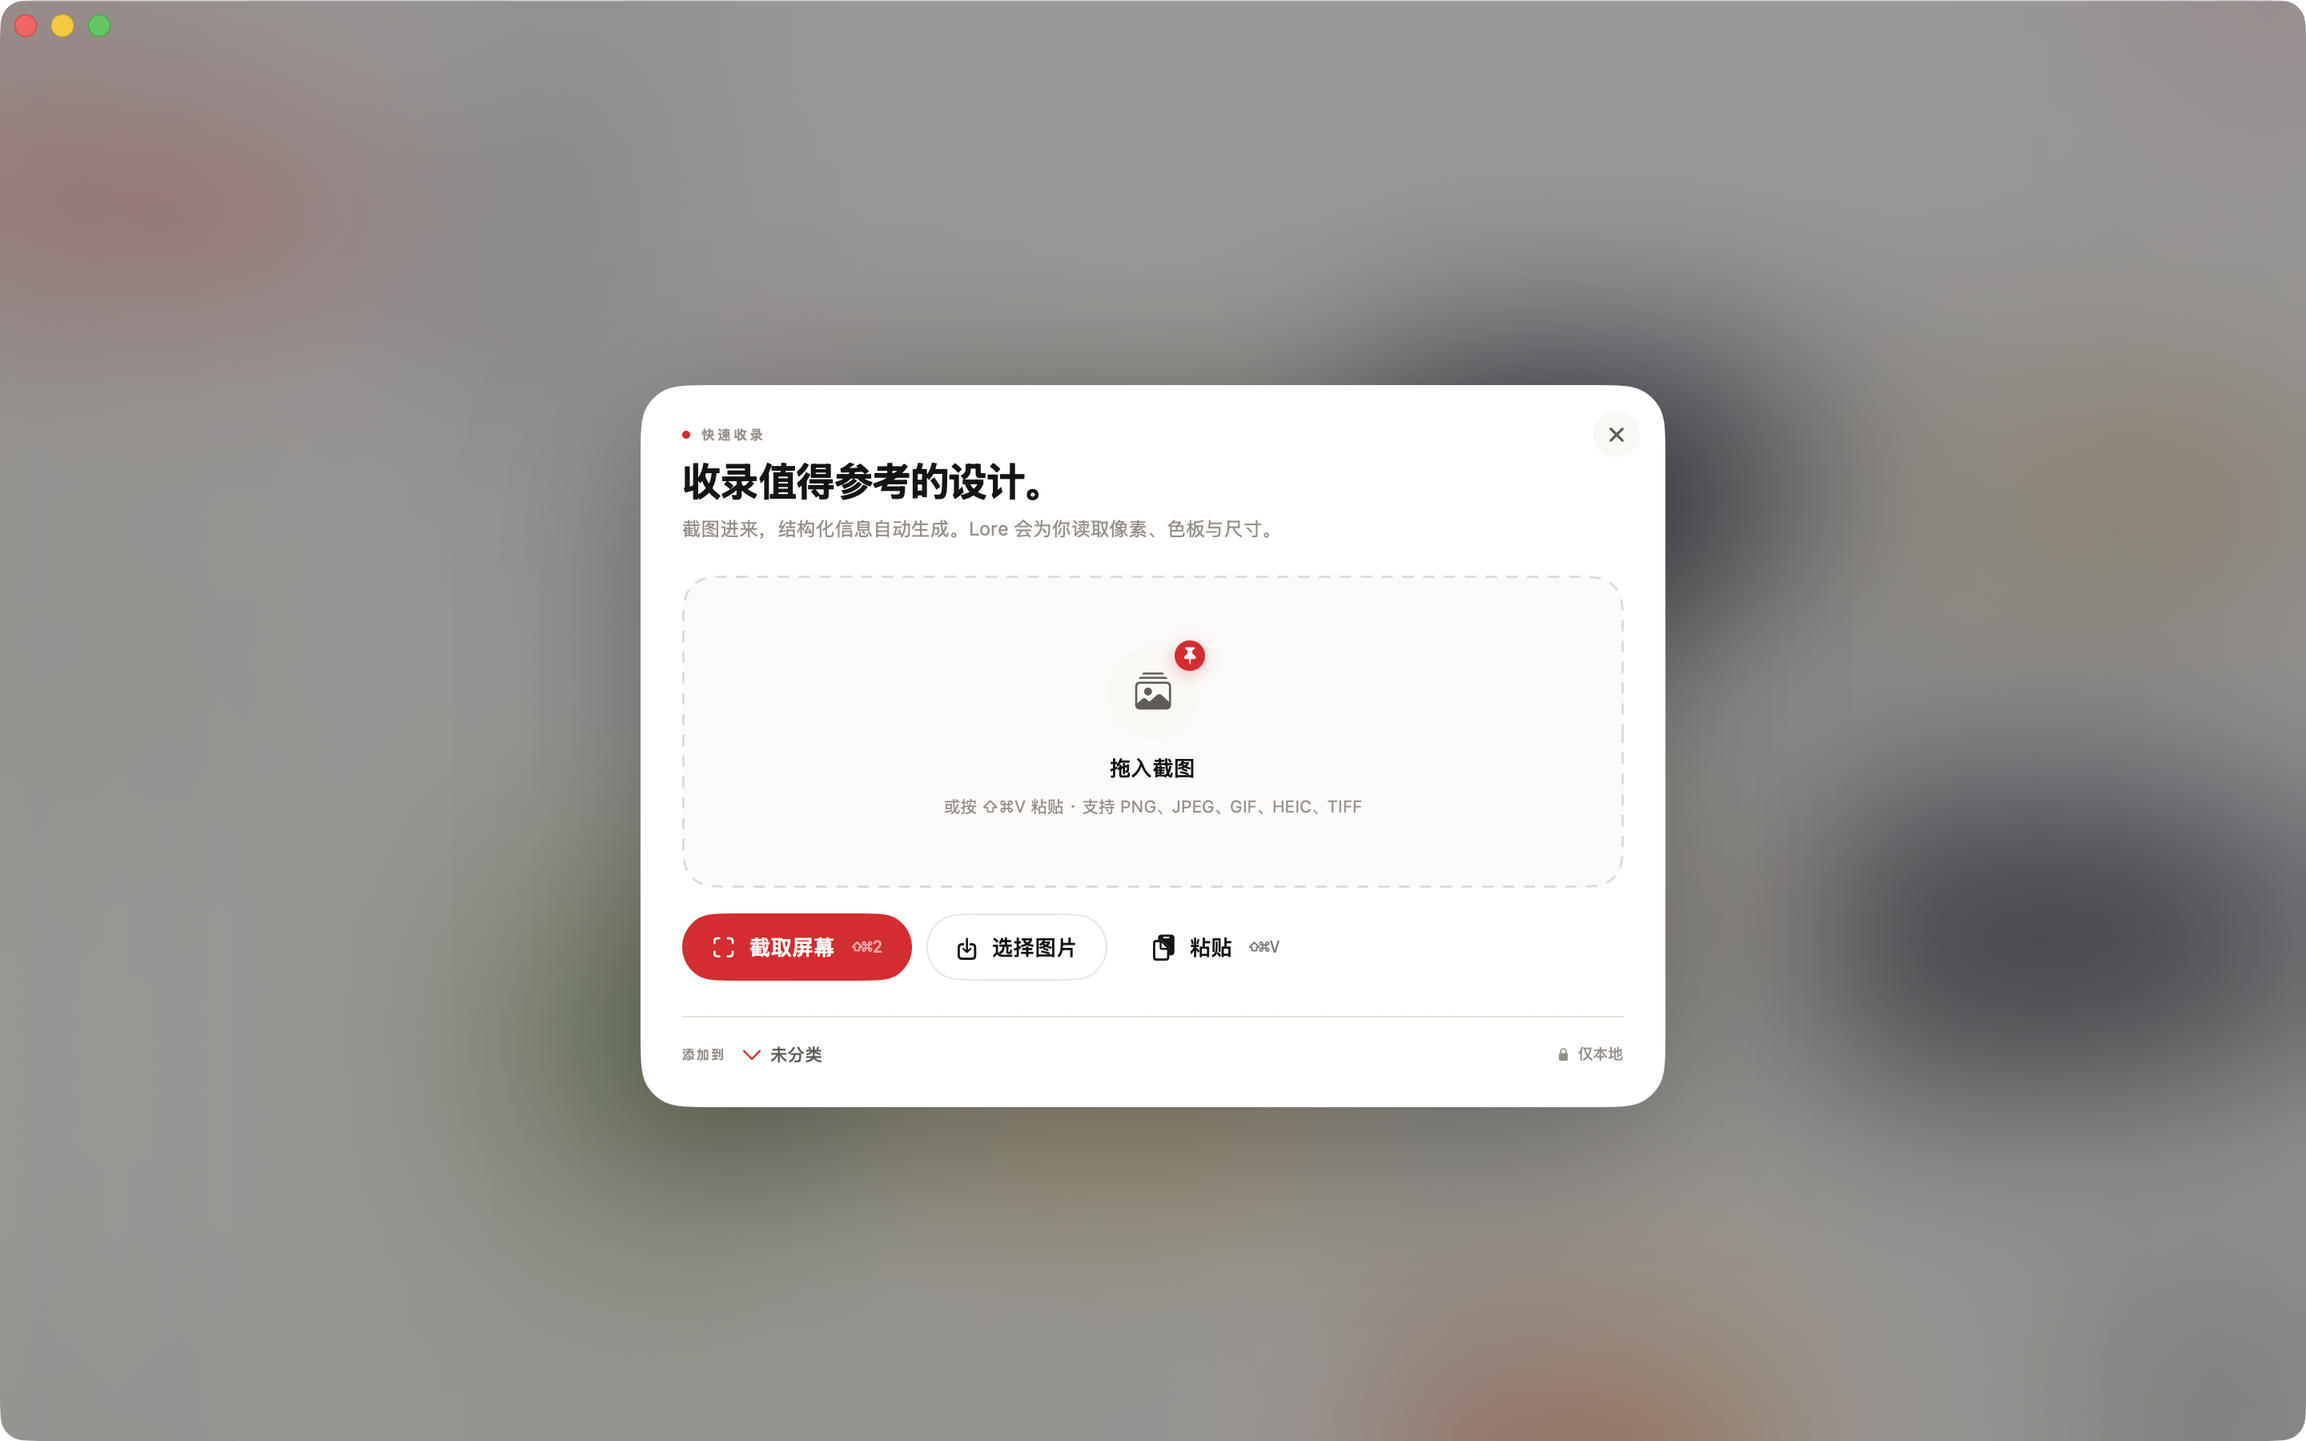
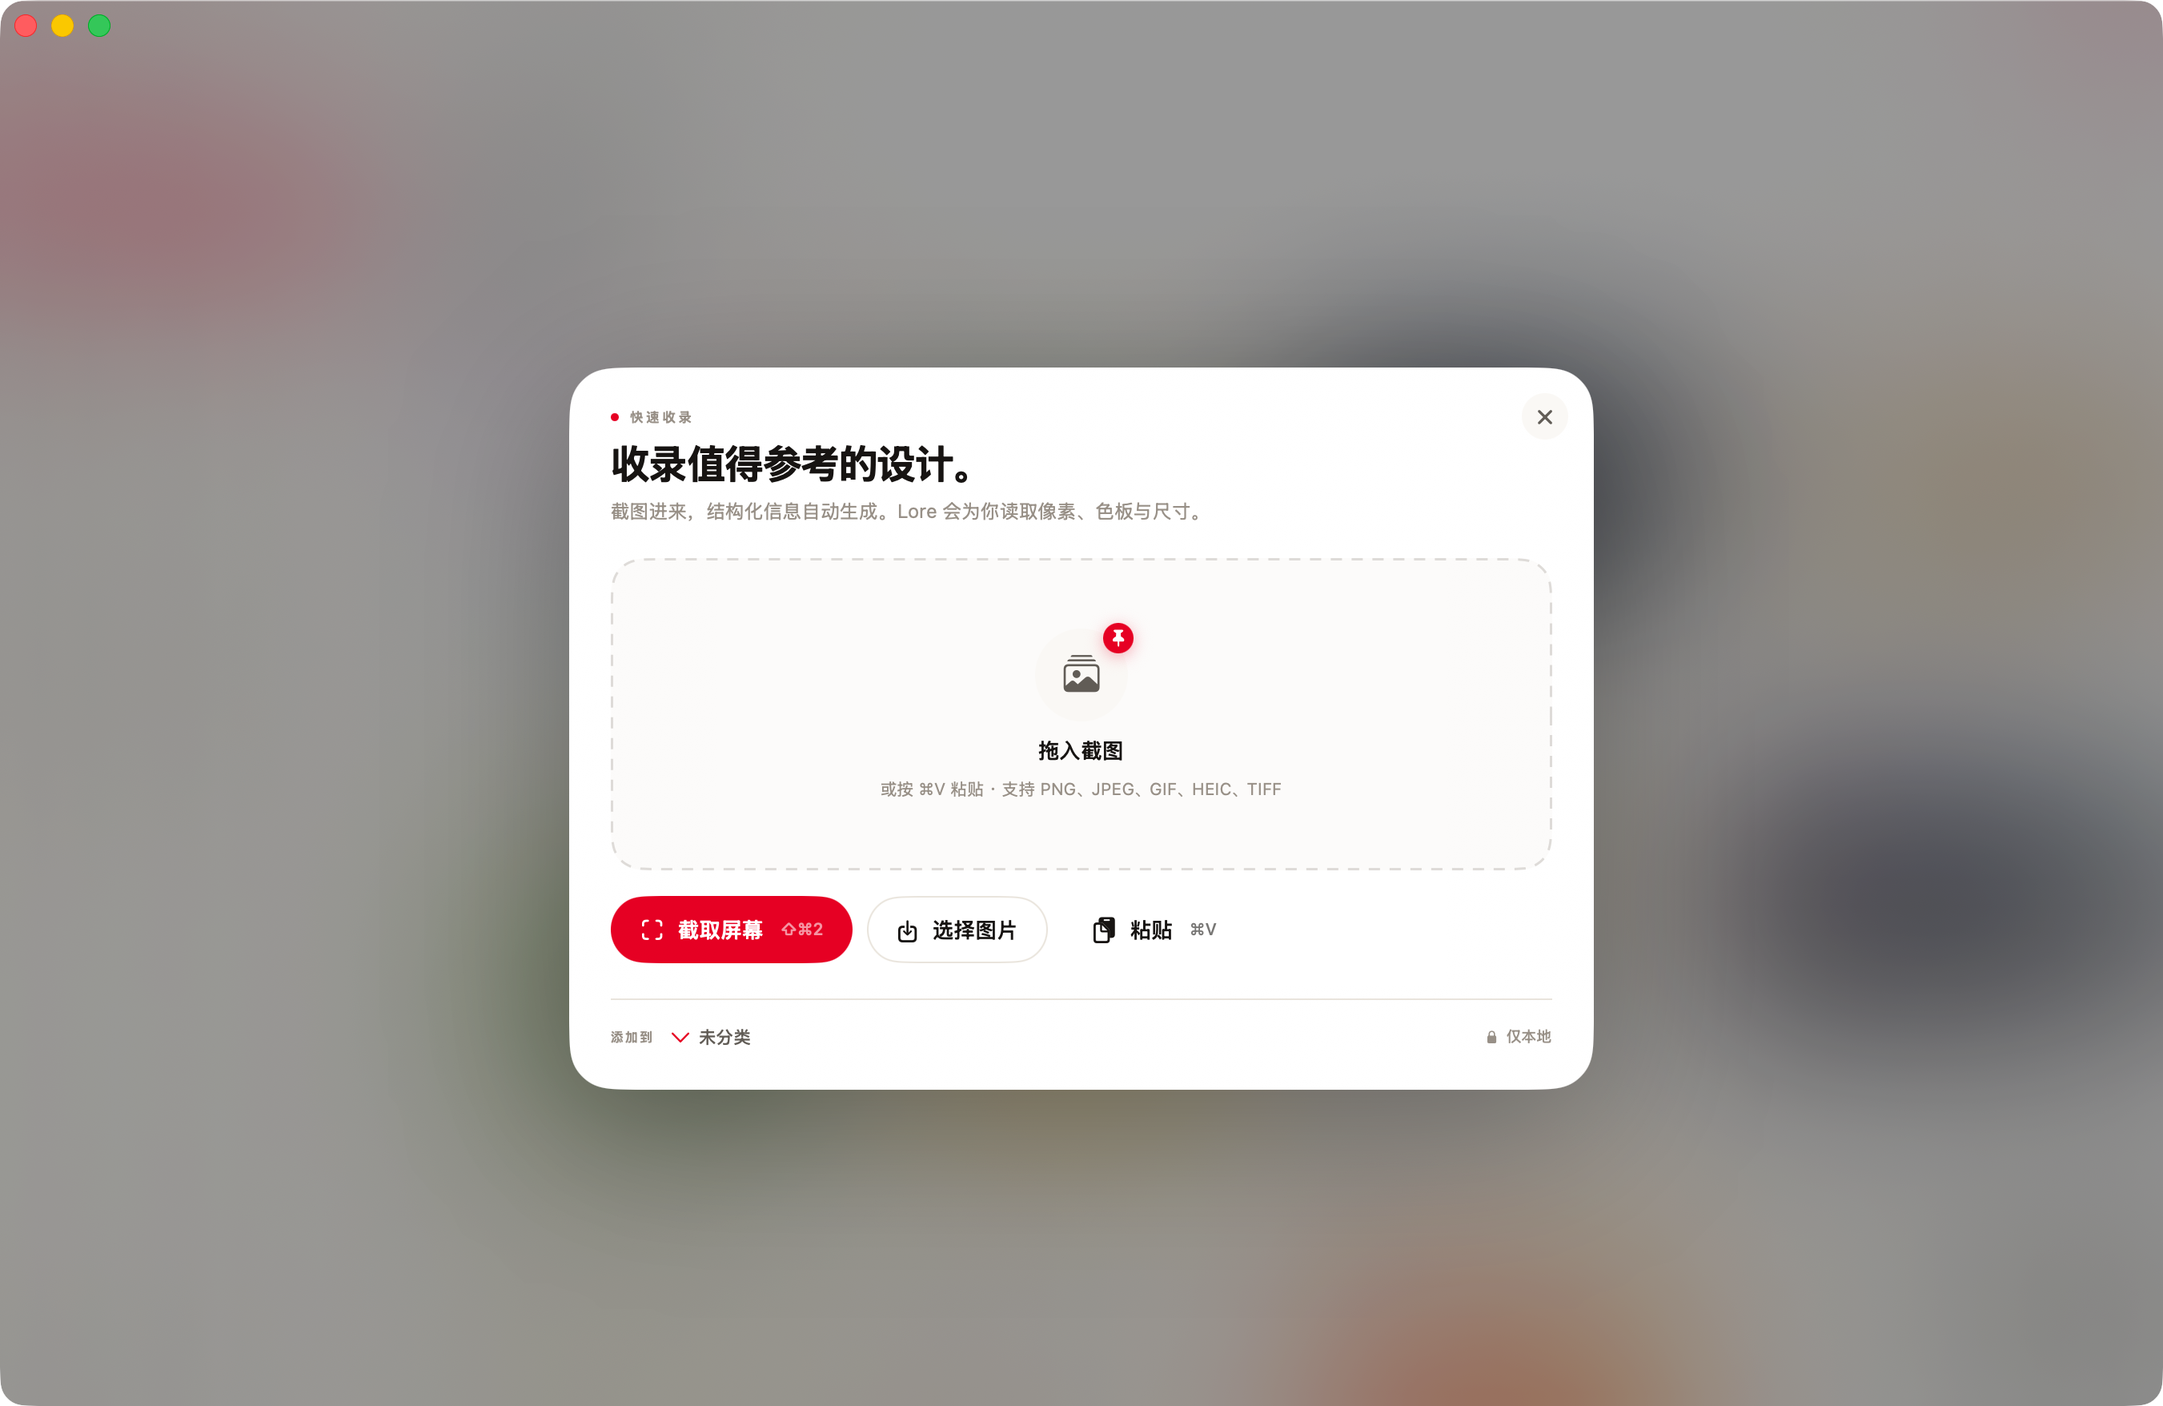
Fix shortcut glyphs and paste with ⌘V
Render LoreButton shortcut badges with the default system face: SF Mono overlaps the ⌘ and ⇧ glyphs at this size. Regenerate the capture and gallery screenshots with the fix.

Pressing ⌘V now imports a clipboard image from the gallery and from the capture sheet, while text fields keep the standard paste behavior; the existing ⇧⌘V menu command still works. Update the in-app copy and README shortcuts to match.

diff --git a/Sources/Lore/Views/CaptureSheet.swift b/Sources/Lore/Views/CaptureSheet.swift
@@ -6,6 +6,7 @@ struct CaptureSheet: View {
     @State private var board = "Unsorted"
     @State private var dropTargeted = false
     @State private var boardMenuHovering = false
+    @State private var pasteMonitor: Any?
 
     var body: some View {
         GeometryReader { geo in
@@ -53,7 +54,9 @@ struct CaptureSheet: View {
         .transition(.opacity.combined(with: .scale(scale: 0.975)))
         .onAppear {
             board = store.selectedBoard ?? store.defaultBoard
+            installPasteMonitor()
         }
+        .onDisappear { removePasteMonitor() }
     }
 
     private var header: some View {
@@ -101,7 +104,7 @@ struct CaptureSheet: View {
                 .font(.system(size: 13.5, weight: .semibold))
                 .foregroundStyle(Theme.ink)
 
-            Text(T("or paste with ⇧⌘V · PNG, JPEG, GIF, HEIC, TIFF"))
+            Text(T("or press ⌘V to paste · PNG, JPEG, GIF, HEIC, TIFF"))
                 .font(.system(size: 10.5))
                 .foregroundStyle(Theme.inkTertiary)
         }
@@ -139,7 +142,7 @@ struct CaptureSheet: View {
                 ImportPanel.present(store: store, board: board)
             }
 
-            LoreButton(title: T("Paste"), icon: "doc.on.clipboard", variant: .ghost, shortcut: "⇧⌘V") {
+            LoreButton(title: T("Paste"), icon: "doc.on.clipboard", variant: .ghost, shortcut: "⌘V") {
                 close()
                 Task { await store.pasteFromClipboard(board: board) }
             }
@@ -202,6 +205,27 @@ struct CaptureSheet: View {
             .foregroundStyle(Theme.inkTertiary)
             .help(T("Images are stored on this Mac and never uploaded."))
         }
+    }
+
+    /// The sheet has no text fields, so ⌘V can always mean "paste the image
+    /// into this board" while it is open. A search field behind the sheet may
+    /// still hold focus; the shortcut must not defer to it.
+    private func installPasteMonitor() {
+        guard pasteMonitor == nil else { return }
+        pasteMonitor = NSEvent.addLocalMonitorForEvents(matching: .keyDown) { event in
+            guard Clipboard.isPasteShortcut(event), Clipboard.containsImage() else { return event }
+            MainActor.assumeIsolated {
+                let target = board
+                close()
+                Task { @MainActor in _ = await store.pasteFromClipboard(board: target) }
+            }
+            return nil
+        }
+    }
+
+    private func removePasteMonitor() {
+        if let pasteMonitor { NSEvent.removeMonitor(pasteMonitor) }
+        pasteMonitor = nil
     }
 
     private func close() {

diff --git a/Sources/Lore/Store/Clipboard.swift b/Sources/Lore/Store/Clipboard.swift
@@ -1,0 +1,51 @@
+import AppKit
+
+/// Clipboard inspection shared by the paste buttons, the app menu, and the ⌘V
+/// shortcut. Keeping the image-type list in one place means the importer, the
+/// shortcut guard, and the empty-state copy cannot disagree about whether a
+/// paste is possible.
+enum Clipboard {
+    static let gifTypes: [NSPasteboard.PasteboardType] = [
+        NSPasteboard.PasteboardType("com.compuserve.gif"),
+        NSPasteboard.PasteboardType("public.gif")
+    ]
+
+    static func isLikelyImage(_ url: URL) -> Bool {
+        ["png", "jpg", "jpeg", "heic", "heif", "tiff", "tif", "webp", "gif", "bmp"]
+            .contains(url.pathExtension.lowercased())
+    }
+
+    /// True when a paste would import something. Only inspects pasteboard types
+    /// and file URLs, so ⌘V can decide whether to consume the event without
+    /// decoding a large bitmap.
+    static func containsImage(_ pasteboard: NSPasteboard = .general) -> Bool {
+        if let objects = pasteboard.readObjects(
+            forClasses: [NSURL.self],
+            options: [.urlReadingFileURLsOnly: true]
+        ) {
+            let urls = objects.compactMap { ($0 as? NSURL) as URL? }
+            if urls.contains(where: isLikelyImage) { return true }
+        }
+
+        let types = Set(pasteboard.types ?? [])
+        if gifTypes.contains(where: { types.contains($0) }) { return true }
+        return types.contains(.png)
+            || types.contains(.tiff)
+            || types.contains(NSPasteboard.PasteboardType("public.jpeg"))
+    }
+
+    /// ⌘V exactly: ⇧⌘V still belongs to the app-menu command, and ⌘⌥V is not a
+    /// paste gesture.
+    static func isPasteShortcut(_ event: NSEvent) -> Bool {
+        guard event.keyCode == 9 else { return false } // kVK_ANSI_V
+        let modifiers = event.modifierFlags.intersection([.command, .shift, .option, .control])
+        return modifiers == .command
+    }
+
+    /// Text fields and editors keep the standard paste behavior; importing a
+    /// screenshot must never steal ⌘V from the search field or a note editor.
+    static func isTextInputFocused(_ window: NSWindow? = NSApp.keyWindow) -> Bool {
+        guard let responder = window?.firstResponder else { return false }
+        return responder is NSTextView || responder is NSTextField
+    }
+}

diff --git a/Sources/Lore/Views/RootView.swift b/Sources/Lore/Views/RootView.swift
@@ -9,6 +9,9 @@ struct RootView: View {
     /// The scroll-view warm-up is only useful while the app is starting; after
     /// that it is a live subtree that every resize pass has to lay out.
     @State private var prewarming = true
+    /// Local ⌘V monitor: the gallery pastes a clipboard image without going
+    /// through the menu or the capture sheet.
+    @State private var pasteMonitor: Any?
 
     var body: some View {
         ZStack {
@@ -144,6 +147,8 @@ struct RootView: View {
         .onReceive(NotificationCenter.default.publisher(for: NSApplication.didResignActiveNotification)) { _ in
             store.flushPersistence()
         }
+        .onAppear { installPasteMonitor() }
+        .onDisappear { removePasteMonitor() }
         .onExitCommand {
             if store.boardManagerPresented {
                 withAnimation(.easeOut(duration: 0.16)) { store.boardManagerPresented = false }
@@ -158,6 +163,29 @@ struct RootView: View {
             }
         }
         .animation(.easeOut(duration: 0.18), value: dropTargeted)
+    }
+
+    private func installPasteMonitor() {
+        guard pasteMonitor == nil else { return }
+        pasteMonitor = NSEvent.addLocalMonitorForEvents(matching: .keyDown) { event in
+            // Let the standard paste command win wherever text is being
+            // edited, and let the capture sheet handle its own ⌘V (it knows
+            // which board the paste should land in).
+            guard Clipboard.isPasteShortcut(event),
+                  !Clipboard.isTextInputFocused(),
+                  Clipboard.containsImage() else { return event }
+            let galleryReady = MainActor.assumeIsolated {
+                !store.capturePresented && !store.boardManagerPresented && store.selectedPin == nil
+            }
+            guard galleryReady else { return event }
+            Task { @MainActor in _ = await store.pasteFromClipboard() }
+            return nil
+        }
+    }
+
+    private func removePasteMonitor() {
+        if let pasteMonitor { NSEvent.removeMonitor(pasteMonitor) }
+        pasteMonitor = nil
     }
 
     /// Hidden launch-argument hooks used for automated design verification:

diff --git a/Sources/Lore/Store/LibraryStore.swift b/Sources/Lore/Store/LibraryStore.swift
@@ -997,7 +997,7 @@ final class LibraryStore {
 
         if let objects = pasteboard.readObjects(forClasses: [NSURL.self], options: [.urlReadingFileURLsOnly: true]) {
             let urls = objects.compactMap { ($0 as? NSURL) as URL? }
-            let imageURLs = urls.filter { Self.isLikelyImage($0) }
+            let imageURLs = urls.filter { Clipboard.isLikelyImage($0) }
             if !imageURLs.isEmpty {
                 await addFiles(imageURLs, sourceLabel: "Clipboard", board: board)
                 return true
@@ -1007,7 +1007,7 @@ final class LibraryStore {
         // Prefer GIF bytes before PNG/TIFF: browsers expose a static PNG
         // representation too, and copying from the wrong one would drop the
         // animation. Both the classic and modern pasteboard identifiers exist.
-        for type in Self.gifPasteboardTypes {
+        for type in Clipboard.gifTypes {
             if let gif = pasteboard.data(forType: type) {
                 await addImageData(
                     gif,
@@ -1525,13 +1525,4 @@ final class LibraryStore {
         Date().loreTime
     }
 
-    private static let gifPasteboardTypes: [NSPasteboard.PasteboardType] = [
-        NSPasteboard.PasteboardType("com.compuserve.gif"),
-        NSPasteboard.PasteboardType("public.gif")
-    ]
-
-    private static func isLikelyImage(_ url: URL) -> Bool {
-        let ext = url.pathExtension.lowercased()
-        return ["png", "jpg", "jpeg", "heic", "heif", "tiff", "tif", "webp", "gif", "bmp"].contains(ext)
-    }
 }

diff --git a/Sources/Lore/Localization/Localization.swift b/Sources/Lore/Localization/Localization.swift
@@ -160,7 +160,7 @@ final class LanguageManager: ObservableObject {
         "Pin the interfaces that make you stop scrolling.\nEvery capture keeps its pixels, palette, and context — ready for your agent.": "把那些让你停下来多看一眼的界面收进来。\n每张截图都保留像素、色板与上下文，随时喂给 Agent。",
         "Capture screenshot": "截取屏幕",
         "Import images": "导入图片",
-        "or press ⇧⌘V to pin the clipboard": "或按 ⇧⌘V 收录剪贴板",
+        "or press ⌘V to pin the clipboard": "或按 ⌘V 收录剪贴板",
         "⇧⌘2 for a screen capture": "⇧⌘2 截取屏幕",
         "agent ready": "Agent 就绪",
         "Couldn't save the library: %@": "无法保存图库：%@",
@@ -321,7 +321,7 @@ final class LanguageManager: ObservableObject {
         "Screenshots in, structure out. Lore reads pixels, palette, and dimensions for you.": "截图进来，结构化信息自动生成。Lore 会为你读取像素、色板与尺寸。",
         "Drop screenshots here": "拖入截图",
         "Release to pin": "松开即可收录",
-        "or paste with ⇧⌘V · PNG, JPEG, GIF, HEIC, TIFF": "或按 ⇧⌘V 粘贴 · 支持 PNG、JPEG、GIF、HEIC、TIFF",
+        "or press ⌘V to paste · PNG, JPEG, GIF, HEIC, TIFF": "或按 ⌘V 粘贴 · 支持 PNG、JPEG、GIF、HEIC、TIFF",
         "Take screenshot": "截取屏幕",
         "Choose images": "选择图片",
         "Paste": "粘贴",

diff --git a/Sources/Lore/Design/Components.swift b/Sources/Lore/Design/Components.swift
@@ -96,7 +96,10 @@ struct LoreButton: View {
                     .font(.system(size: 13.5, weight: .semibold))
                 if let shortcut {
                     Text(shortcut)
-                        .font(Theme.mono(10.5, weight: .medium))
+                        // SF Mono does not advance ⌘/⇧ correctly at this
+                        // size (they overlap); the default face keeps the
+                        // keycap glyphs legible.
+                        .font(.system(size: 10.5, weight: .medium))
                         .opacity(0.58)
                         .padding(.leading, 2)
                 }

diff --git a/Sources/Lore/Views/EmptyStateView.swift b/Sources/Lore/Views/EmptyStateView.swift
@@ -63,7 +63,7 @@ struct EmptyStateView: View {
             if mode == .emptyLibrary {
                 HStack(spacing: 7) {
                     Image(systemName: "clipboard")
-                    Text(T("or press ⇧⌘V to pin the clipboard"))
+                    Text(T("or press ⌘V to pin the clipboard"))
                     Text("·")
                     Image(systemName: "viewfinder")
                     Text(T("⇧⌘2 for a screen capture"))

diff --git a/README.en.md b/README.en.md
@@ -17,7 +17,7 @@ Lore is a native macOS app for capturing UI screenshots, keeping them in a Pinte
 
 Design reference usually lives in a messy folder of screenshots, a chat thread, or a dozen browser tabs. Agents can't see any of it. Lore is a small, local-first memory for visual taste:
 
-- **Fast to capture** — drag files in, paste from the clipboard (⇧⌘V), or grab a screen region (⇧⌘2).
+- **Fast to capture** — drag files in, paste from the clipboard (⌘V), or grab a screen region (⇧⌘2).
 - **Pinterest, but for references** — a balanced masonry gallery with hover save, boards, search, and favorites.
 - **Metadata that matters** — editable titles, design notes, tags, boards, source attribution, dimensions, file size, dominant palette, and timestamps.
 - **GIF support** — import, drop, paste, or upload a GIF through the Agent API and the original animation is preserved. Cards play it on hover, the detail card and large-image mode keep it looping, and the API exposes `animated` and `frameCount`.
@@ -39,7 +39,7 @@ Design reference usually lives in a messy folder of screenshots, a chat thread, 
 | --- | --- |
 | Quick capture sheet | ⌘N |
 | Import images | ⌘O |
-| Paste image from clipboard | ⇧⌘V |
+| Paste image from clipboard | ⌘V (or ⇧⌘V) |
 | Capture a screen region | ⇧⌘2 |
 | Search pins | ⌘F |
 | Open Agent access | ⌘4 |

diff --git a/README.md b/README.md
@@ -17,7 +17,7 @@ Lore 是一个原生 macOS 应用，用来快速收录 UI 截图、在 Pinterest
 
 设计参考通常散落在截图文件夹、聊天记录或十几个浏览器标签页里。Agent 看不到这些东西。Lore 是一个小巧、本地优先的“视觉品味记忆”：
 
-- **快速收录**：拖入文件、粘贴剪贴板（⇧⌘V），或截取屏幕区域（⇧⌘2）。
+- **快速收录**：拖入文件、粘贴剪贴板（⌘V），或截取屏幕区域（⇧⌘2）。
 - **属于参考的 Pinterest**：平衡的瀑布流画廊，悬停收藏、画板、搜索、最近添加与收藏夹。
 - **有用的元数据**：可编辑标题、设计笔记、标签、画板、来源、尺寸、文件大小、主色板与时间。
 - **GIF 动图**：导入、拖拽、粘贴或 Agent 上传 GIF 时保留原动画；宫格悬停播放，详情与大图模式持续播放，卡片带 GIF 标识。原图会附带 `animated` 与 `frameCount` 元数据供 Agent 使用。
@@ -40,7 +40,7 @@ Lore 是一个原生 macOS 应用，用来快速收录 UI 截图、在 Pinterest
 | --- | --- |
 | 打开快速收录面板 | ⌘N |
 | 导入图片 | ⌘O |
-| 粘贴剪贴板图片 | ⇧⌘V |
+| 粘贴剪贴板图片 | ⌘V（也可 ⇧⌘V） |
 | 截取屏幕区域 | ⇧⌘2 |
 | 搜索灵感 | ⌘F |
 | 打开 Agent 访问 | ⌘4 |
